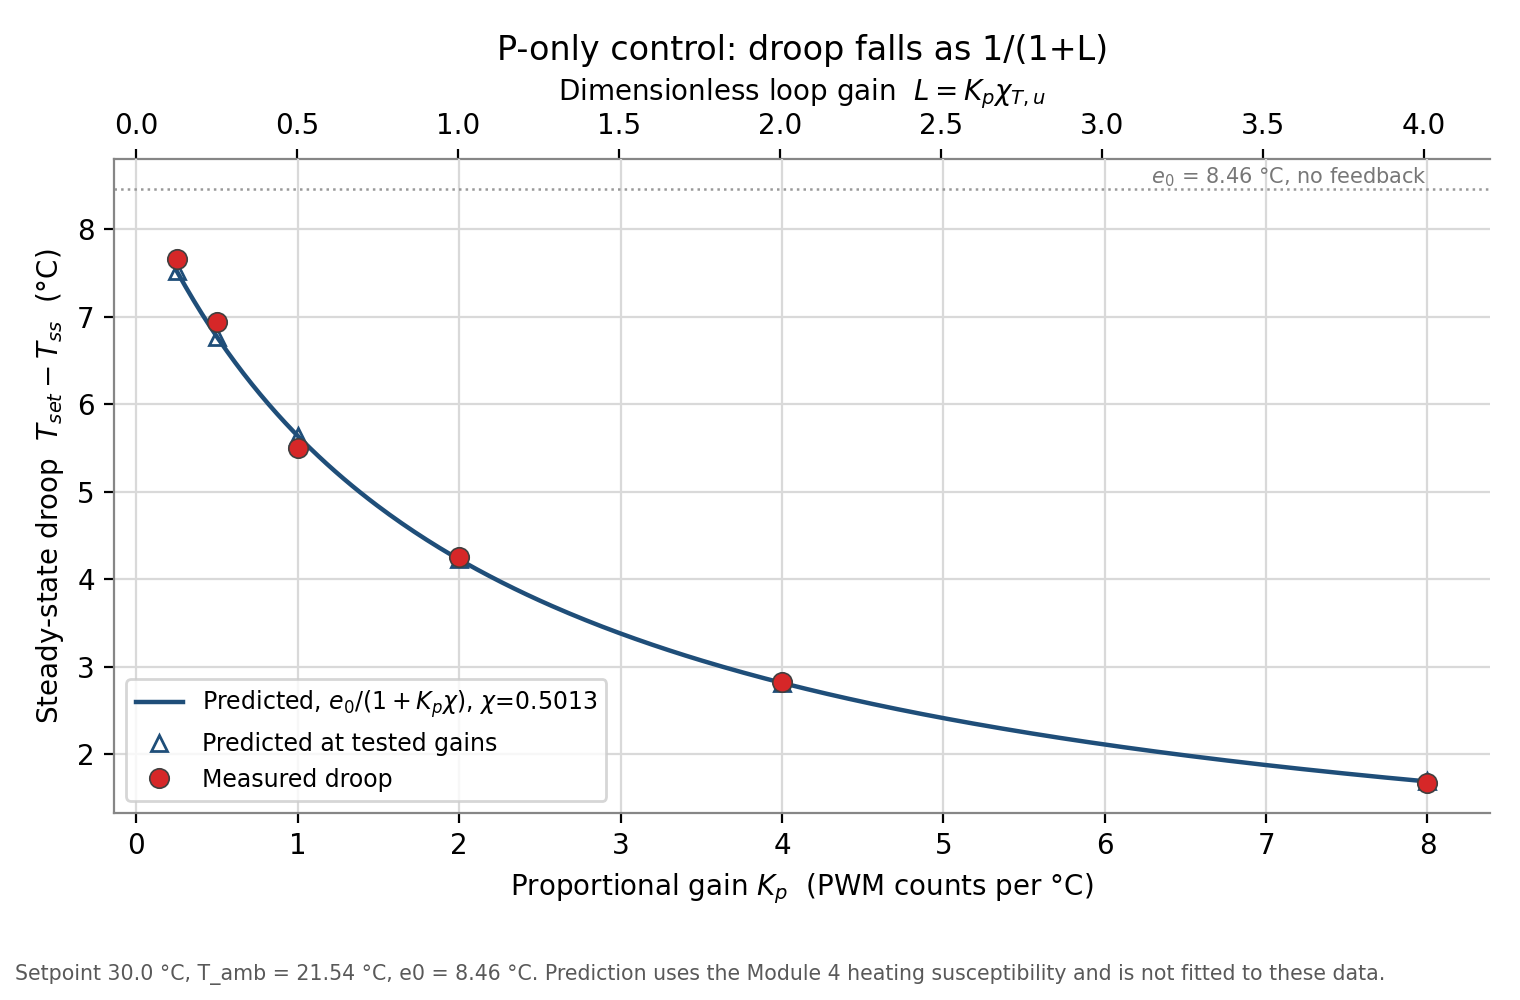
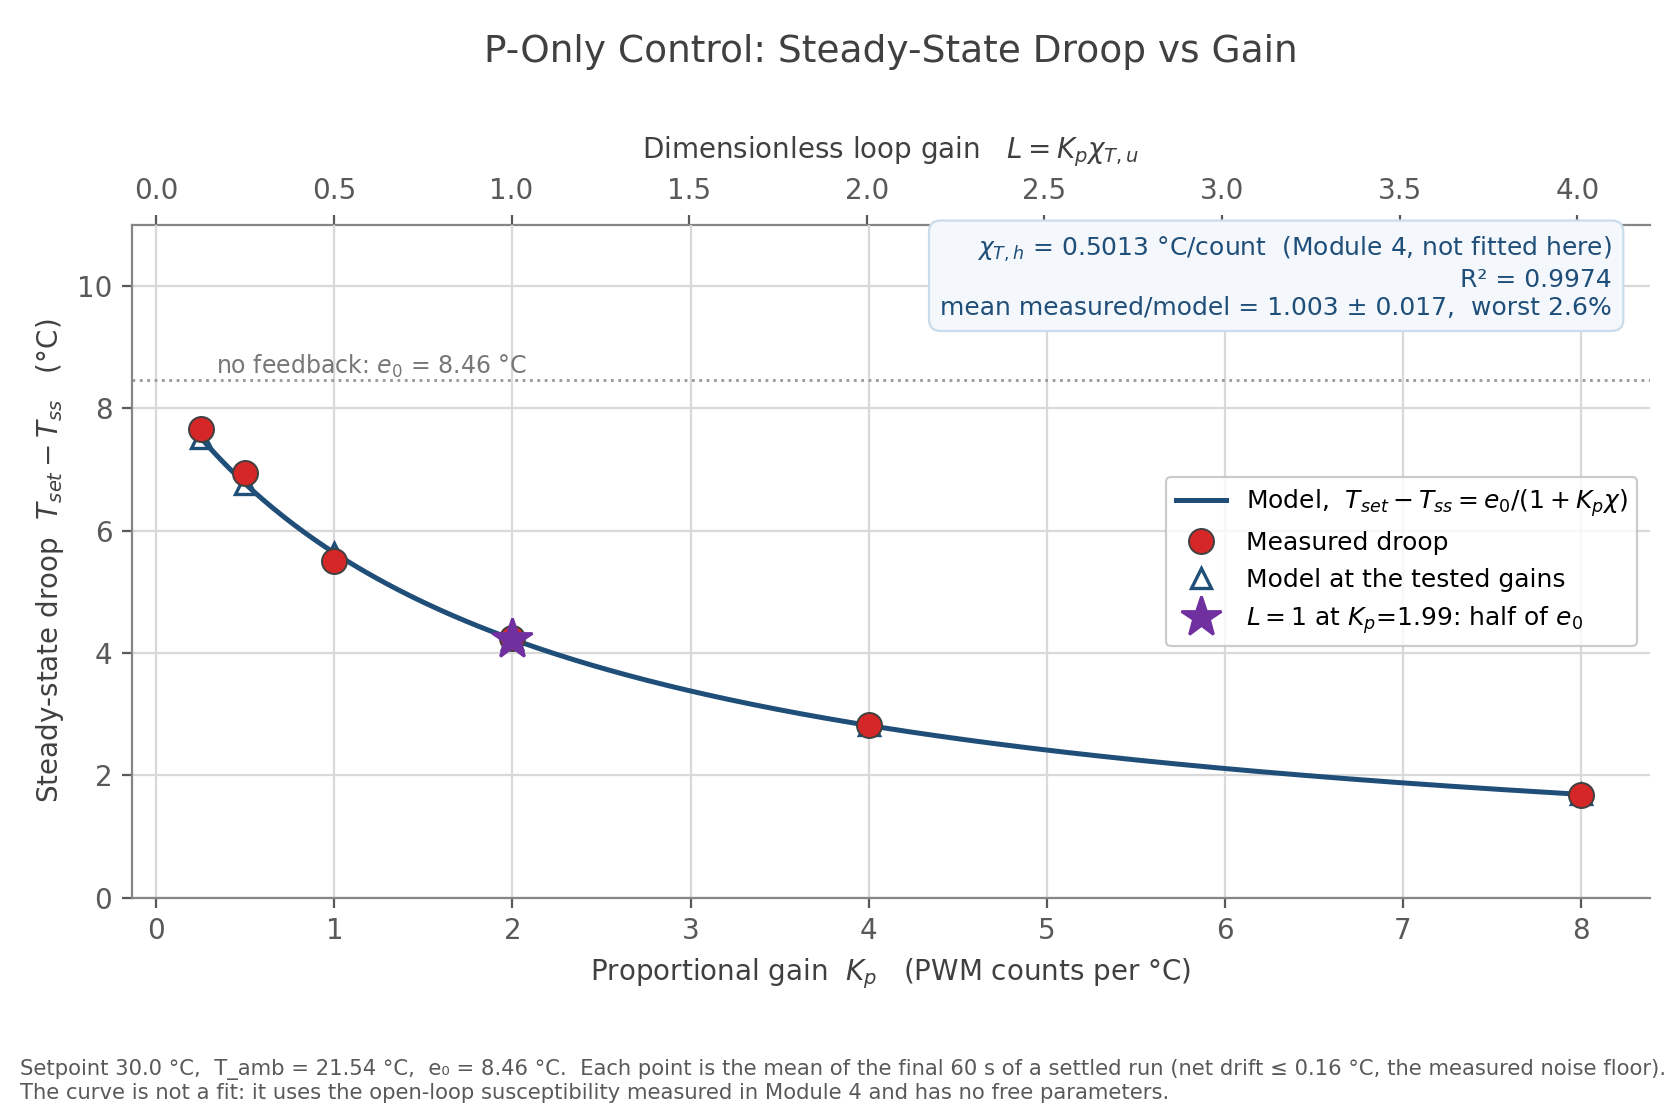
Restyle the droop figure as a spreadsheet chart with the agreement quoted
Same convention as the Module 4 figure: white plot area, light grey
gridlines on both axes, no top or right border, outward ticks, dark-edged
markers, and the model statistics printed on the chart the way Excel writes
a trendline equation and R-squared.

The box quotes chi with a note that it came from Module 4 and was not fitted
here, R-squared 0.9974, and the mean measured/model ratio with its spread
and worst deviation, since a ratio says more about a one-parameter-free
prediction than R-squared alone does.

L = 1 marked with a star at Kp = 1.99, where exactly half the initial error
survives. It is the most quotable point on the curve and worth naming rather
than leaving the reader to find it.

The e0 line is labelled at the left end so the stats box does not sit on it,
and the y range has headroom for both.

diff --git a/python/plot_droop.py b/python/plot_droop.py
@@ -102,51 +102,99 @@ def main():
     print("  or the command is being clamped.")
 
     # ---- figure ----
-    plt.rcParams.update({"font.family": "DejaVu Sans", "font.size": 10,
-                         "axes.edgecolor": "#868686", "axes.linewidth": 0.8})
-    fig, ax = plt.subplots(figsize=(7.6, 5.0))
+    #
+    # Styled to read like a spreadsheet chart: white plot area, light grey
+    # gridlines on both axes, no top or right border, outward ticks,
+    # dark-edged markers, and the fit equation plus R-squared printed on the
+    # chart the way Excel's "Display Equation" option writes them.
+    plt.rcParams.update({
+        "font.family": "DejaVu Sans", "font.size": 10,
+        "axes.edgecolor": "#868686", "axes.linewidth": 0.8,
+        "xtick.direction": "out", "ytick.direction": "out",
+        "xtick.color": "#595959", "ytick.color": "#595959",
+    })
+    fig, ax = plt.subplots(figsize=(8.4, 5.6))
     fig.patch.set_facecolor("white")
     ax.set_facecolor("white")
-    ax.grid(True, color="#D9D9D9", linewidth=0.8)
+    ax.grid(True, which="major", color="#D9D9D9", linewidth=0.8)
     ax.set_axisbelow(True)
     for side in ("top", "right"):
         ax.spines[side].set_visible(False)
 
-    # Smooth prediction curve across the tested range, so the comparison is
-    # against a model rather than against six isolated predicted points.
     lo, hi = min(kps), max(kps)
-    span = [lo + (hi - lo) * i / 300.0 for i in range(301)]
+    span = [lo + (hi - lo) * i / 400.0 for i in range(401)]
     sp0 = rows[0][1]
     e0 = sp0 - T_AMB
+
     ax.plot(span, [e0 / (1.0 + k * CHI_H) for k in span], "-",
-            color=PRED_COLOR, linewidth=1.6,
-            label=f"Predicted, $e_0/(1+K_p\\chi)$, $\\chi$={CHI_H:.4f}")
-    ax.plot(kps, pred, "^", color=PRED_COLOR, markersize=6,
-            markerfacecolor="none", label="Predicted at tested gains")
-    ax.plot(kps, meas, "o", color=MEAS_COLOR, markersize=7,
-            markeredgecolor="#404040", markeredgewidth=0.6,
-            label="Measured droop")
+            color=PRED_COLOR, linewidth=1.8, zorder=2,
+            label="Model,  $T_{set}-T_{ss}=e_0/(1+K_p\\chi)$")
+    ax.plot(kps, meas, "o", color=MEAS_COLOR, markersize=9,
+            markeredgecolor="#404040", markeredgewidth=0.7, linestyle="none",
+            zorder=4, label="Measured droop")
+    ax.plot(kps, pred, "^", color=PRED_COLOR, markersize=7,
+            markerfacecolor="none", markeredgewidth=1.2, linestyle="none",
+            zorder=3, label="Model at the tested gains")
 
-    ax.set_xlabel("Proportional gain $K_p$  (PWM counts per °C)")
-    ax.set_ylabel("Steady-state droop  $T_{set}-T_{ss}$  (°C)")
-    ax.set_title("P-only control: droop falls as 1/(1+L)")
-    ax.legend(fontsize=8.5)
+    # Agreement quoted on the chart, the way a trendline R^2 would be.
+    ratios = [m / p for m, p in zip(meas, pred)]
+    mean_r = sum(ratios) / len(ratios)
+    sd_r = (sum((r - mean_r) ** 2 for r in ratios) / len(ratios)) ** 0.5
+    worst = max(abs(r - 1.0) for r in ratios) * 100.0
+    ss_res = sum((m - p) ** 2 for m, p in zip(meas, pred))
+    mbar = sum(meas) / len(meas)
+    ss_tot = sum((m - mbar) ** 2 for m in meas)
+    r2 = 1.0 - ss_res / ss_tot if ss_tot else float("nan")
 
-    # Second axis in L, since L is what the physics depends on.
+    ax.text(0.975, 0.985,
+            f"$\\chi_{{T,h}}$ = {CHI_H:.4f} \u00b0C/count  (Module 4, "
+            f"not fitted here)\n"
+            f"R\u00b2 = {r2:.4f}\n"
+            f"mean measured/model = {mean_r:.3f} \u00b1 {sd_r:.3f},  "
+            f"worst {worst:.1f}%",
+            transform=ax.transAxes, ha="right", va="top", fontsize=9,
+            color=PRED_COLOR,
+            bbox=dict(boxstyle="round,pad=0.45", facecolor="#F4F8FC",
+                      edgecolor="#C9DCEC", linewidth=0.8))
+
+    # Mark L = 1, where exactly half the initial error survives. It is the
+    # single most quotable point on the curve, so name it.
+    kp_L1 = 1.0 / CHI_H
+    if lo <= kp_L1 <= hi:
+        ax.plot([kp_L1], [e0 / 2.0], "*", color="#7030A0", markersize=15,
+                zorder=5, label=f"$L=1$ at $K_p$={kp_L1:.2f}: half of $e_0$")
+
+    ax.axhline(e0, color="#999999", linewidth=1.0, linestyle=":", zorder=1)
+    ax.text(lo, e0, f"  no feedback: $e_0$ = {e0:.2f} \u00b0C",
+            fontsize=8.5, color="#777777", va="bottom", ha="left")
+
+    ax.set_xlabel("Proportional gain  $K_p$   (PWM counts per \u00b0C)",
+                  color="#404040")
+    ax.set_ylabel("Steady-state droop  $T_{set}-T_{ss}$   (\u00b0C)",
+                  color="#404040")
+    ax.set_title("P-Only Control: Steady-State Droop vs Gain",
+                 fontsize=13.5, color="#404040", pad=26)
+    ax.set_ylim(0, e0 * 1.30)
+
     top = ax.secondary_xaxis("top", functions=(lambda k: k * CHI_H,
                                                lambda l: l / CHI_H))
-    top.set_xlabel("Dimensionless loop gain  $L=K_p\\chi_{T,u}$")
+    top.set_xlabel("Dimensionless loop gain   $L=K_p\\chi_{T,u}$",
+                   color="#404040", labelpad=7)
+    top.tick_params(colors="#595959")
 
-    ax.axhline(e0, color="#999999", linewidth=0.9, linestyle=":")
-    ax.text(hi, e0, f" $e_0$ = {e0:.2f} °C, no feedback",
-            fontsize=7.5, color="#777777", va="bottom", ha="right")
+    leg = ax.legend(loc="center right", frameon=True, fontsize=9)
+    leg.get_frame().set_edgecolor("#BFBFBF")
+    leg.get_frame().set_linewidth(0.8)
 
-    fig.text(0.01, 0.015,
-             f"Setpoint {sp0:.1f} °C, T_amb = {T_AMB:.2f} °C, "
-             f"e0 = {e0:.2f} °C. Prediction uses the Module 4 heating "
-             f"susceptibility and is not fitted to these data.",
-             fontsize=7.4, color="#595959", va="bottom")
-    fig.tight_layout(rect=(0, 0.06, 1, 1))
+    fig.text(0.012, 0.015,
+             f"Setpoint {sp0:.1f} \u00b0C,  T_amb = {T_AMB:.2f} \u00b0C,  "
+             f"e\u2080 = {e0:.2f} \u00b0C.  Each point is the mean of the "
+             f"final 60 s of a settled run (net drift \u2264 0.16 \u00b0C, "
+             f"the measured noise floor).\nThe curve is not a fit: it uses "
+             f"the open-loop susceptibility measured in Module 4 and has no "
+             f"free parameters.",
+             fontsize=7.6, color="#595959", va="bottom")
+    fig.tight_layout(rect=(0, 0.085, 1, 1))
 
     os.makedirs(os.path.dirname(OUTPUT_PNG), exist_ok=True)
     fig.savefig(OUTPUT_PNG, dpi=200, facecolor="white")
